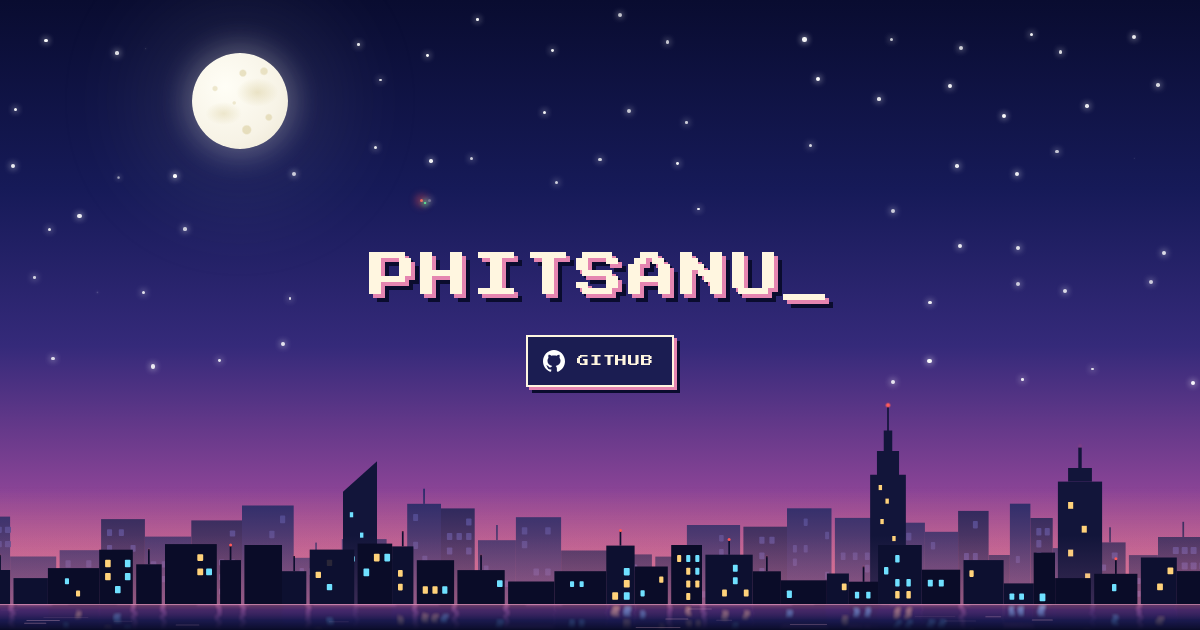
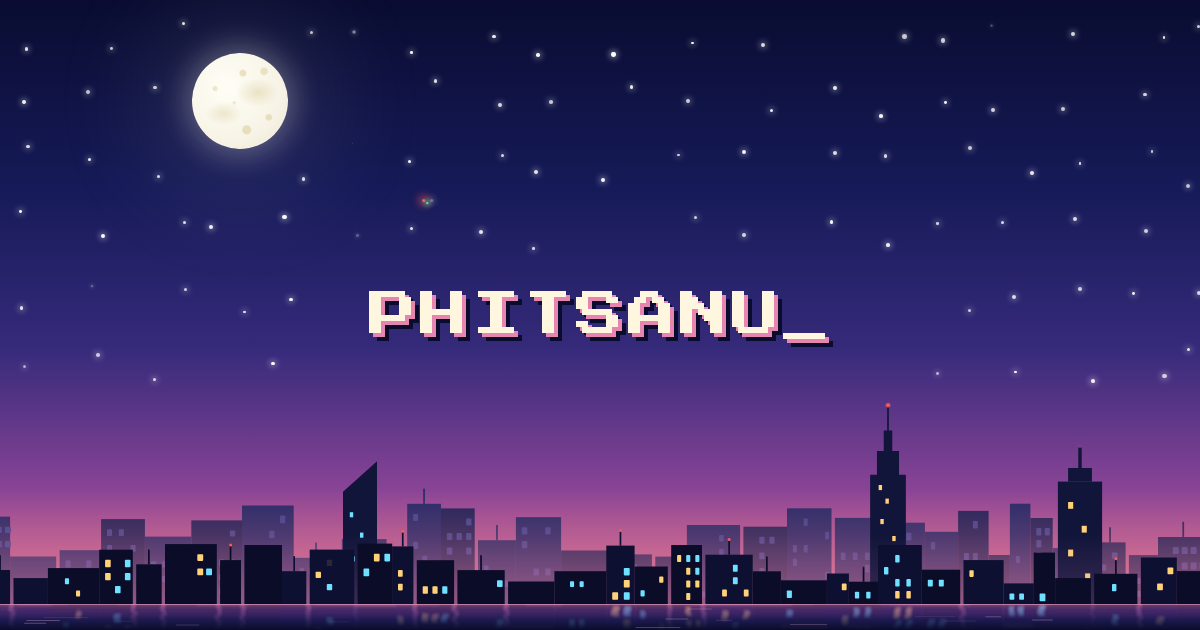
Move GitHub link next to the music button

diff --git a/index.html b/index.html
@@ -36,15 +36,23 @@ body { background: transparent; }
 @keyframes wbk { 0%, 60% { opacity: 1; } 61%, 100% { opacity: .12; } }
 @keyframes bcn { 0%, 55% { opacity: 1; } 56%, 100% { opacity: .1; } }
 @media (prefers-reduced-motion: reduce) { .wb, .bc { animation: none; } }
-.music {
+.topbar {
   position: fixed; z-index: 10; top: calc(18px + env(safe-area-inset-top, 0px)); right: 18px;
-  display: flex; align-items: center; gap: 10px;
-  font: 600 12px / 1 "Quicksand", "Nunito", "Segoe UI", system-ui, sans-serif; letter-spacing: .12em; color: var(--cream);
-  background: rgba(30,33,82,.5); border: 1px solid rgba(255,255,255,.2); border-radius: 999px; padding: 10px 16px; cursor: pointer;
-  -webkit-backdrop-filter: blur(6px); backdrop-filter: blur(6px);
+  display: flex; gap: 10px;
 }
-.music:hover { background: rgba(45,50,110,.65); }
-.music:focus-visible { outline: 2px solid #ffb6d3; outline-offset: 4px; }
+/* both buttons share one size so the pair reads as a set */
+.pill {
+  box-sizing: border-box; width: 138px; height: 38px; margin: 0;
+  display: inline-flex; align-items: center; justify-content: center; gap: 9px; padding: 0 14px;
+  font: 600 12px / 1 "Quicksand", "Nunito", "Segoe UI", system-ui, sans-serif; letter-spacing: .12em; color: var(--cream); text-decoration: none;
+  background: rgba(30,33,82,.5); border: 1px solid rgba(255,255,255,.2); border-radius: 999px; cursor: pointer;
+  -webkit-backdrop-filter: blur(6px); backdrop-filter: blur(6px);
+  transition: background .15s ease, border-color .15s ease;
+}
+.pill:hover { background: rgba(45,50,110,.65); border-color: rgba(255,182,211,.45); }
+.pill:focus-visible { outline: 2px solid #ffb6d3; outline-offset: 4px; }
+.pill img { width: 16px; height: 16px; display: block; flex: none; }
+@media (max-width: 360px) { .topbar { right: 12px; gap: 8px; } .pill { width: 128px; padding: 0 10px; } }
 .eq { display: flex; align-items: flex-end; gap: 2px; height: 12px; }
 .eq i { display: block; width: 3px; height: 5px; border-radius: 2px; background: #ffb6d3; }
 .music.on .eq i { animation: eq .9s ease-in-out infinite; }
@@ -105,21 +113,6 @@ h1 {
 @media (min-width: 480px) { h1 { font-size: 32px; --px: 3px; } }
 @media (min-width: 760px) { h1 { font-size: 40px; --px: 4px; } }
 @media (min-width: 1100px) { h1 { font-size: 48px; --px: 4px; } }
-.hero { display: flex; flex-direction: column; align-items: center; gap: 30px; }
-.gh {
-  display: inline-flex; align-items: center; gap: 12px; padding: 12px 16px 12px 14px;
-  font: 400 11px / 1 "Press Start 2P", "Courier New", monospace; letter-spacing: .08em; text-decoration: none;
-  color: #fff6e0; background: #1b1d52;
-  /* cream frame with the same pink + ink offset as the name */
-  box-shadow: 0 0 0 2px #fff6e0, 3px 3px 0 2px #e585b0, 6px 6px 0 2px #0a0c2e;
-  transition: transform .1s ease, box-shadow .1s ease, background .15s ease;
-  -webkit-font-smoothing: none;
-}
-.gh img { width: 20px; height: auto; display: block; flex: none; }
-.gh:hover { background: #262a6e; }
-.gh:active { transform: translate(3px, 3px); box-shadow: 0 0 0 2px #fff6e0, 0 0 0 2px #e585b0, 3px 3px 0 2px #0a0c2e; }
-.gh:focus-visible { outline: 2px solid #ffb6d3; outline-offset: 8px; }
-@media (min-width: 760px) { .gh { font-size: 12px; padding: 13px 18px 13px 15px; } .gh img { width: 22px; } }
 h1 .cur { animation: blink 1.1s steps(1) infinite; }
 .sr { position: absolute; width: 1px; height: 1px; margin: -1px; padding: 0; overflow: hidden; clip: rect(0 0 0 0); white-space: nowrap; border: 0; }
 @keyframes blink { 50% { opacity: 0; } }
@@ -131,17 +124,17 @@ h1 .cur { animation: blink 1.1s steps(1) infinite; }
 <div class="moon" aria-hidden="true"></div>
 <div class="plane" aria-hidden="true"><i class="beacon"></i><i class="green"></i><i class="nav"></i></div>
 <svg id="city" aria-hidden="true"></svg>
-<button class="music" id="music" type="button" aria-pressed="false">
-  <span class="eq" aria-hidden="true"><i></i><i></i><i></i></span>
-  <span id="mlabel">MUSIC OFF</span>
-</button>
-<main><div class="hero" data-clear>
-  <h1><span class="sr">Phitsanu</span><span aria-hidden="true">PHITSANU<span class="cur">_</span></span></h1>
-  <a class="gh" href="https://github.com/phitsanu-tr" target="_blank" rel="me noopener">
-    <img src="/icons/github-invertocat-white.svg" alt="" width="20" height="20">
+<nav class="topbar" aria-label="Links and sound">
+  <a class="pill" href="https://github.com/phitsanu-tr" target="_blank" rel="me noopener">
+    <img src="/icons/github-invertocat-white.svg" alt="" width="16" height="16">
     <span>GITHUB</span>
   </a>
-</div></main>
+  <button class="pill music" id="music" type="button" aria-pressed="false">
+    <span class="eq" aria-hidden="true"><i></i><i></i><i></i></span>
+    <span id="mlabel">MUSIC OFF</span>
+  </button>
+</nav>
+<main><h1 data-clear><span class="sr">Phitsanu</span><span aria-hidden="true">PHITSANU<span class="cur">_</span></span></h1></main>
 <script>
 (function () {
   var svg = document.getElementById('city');
